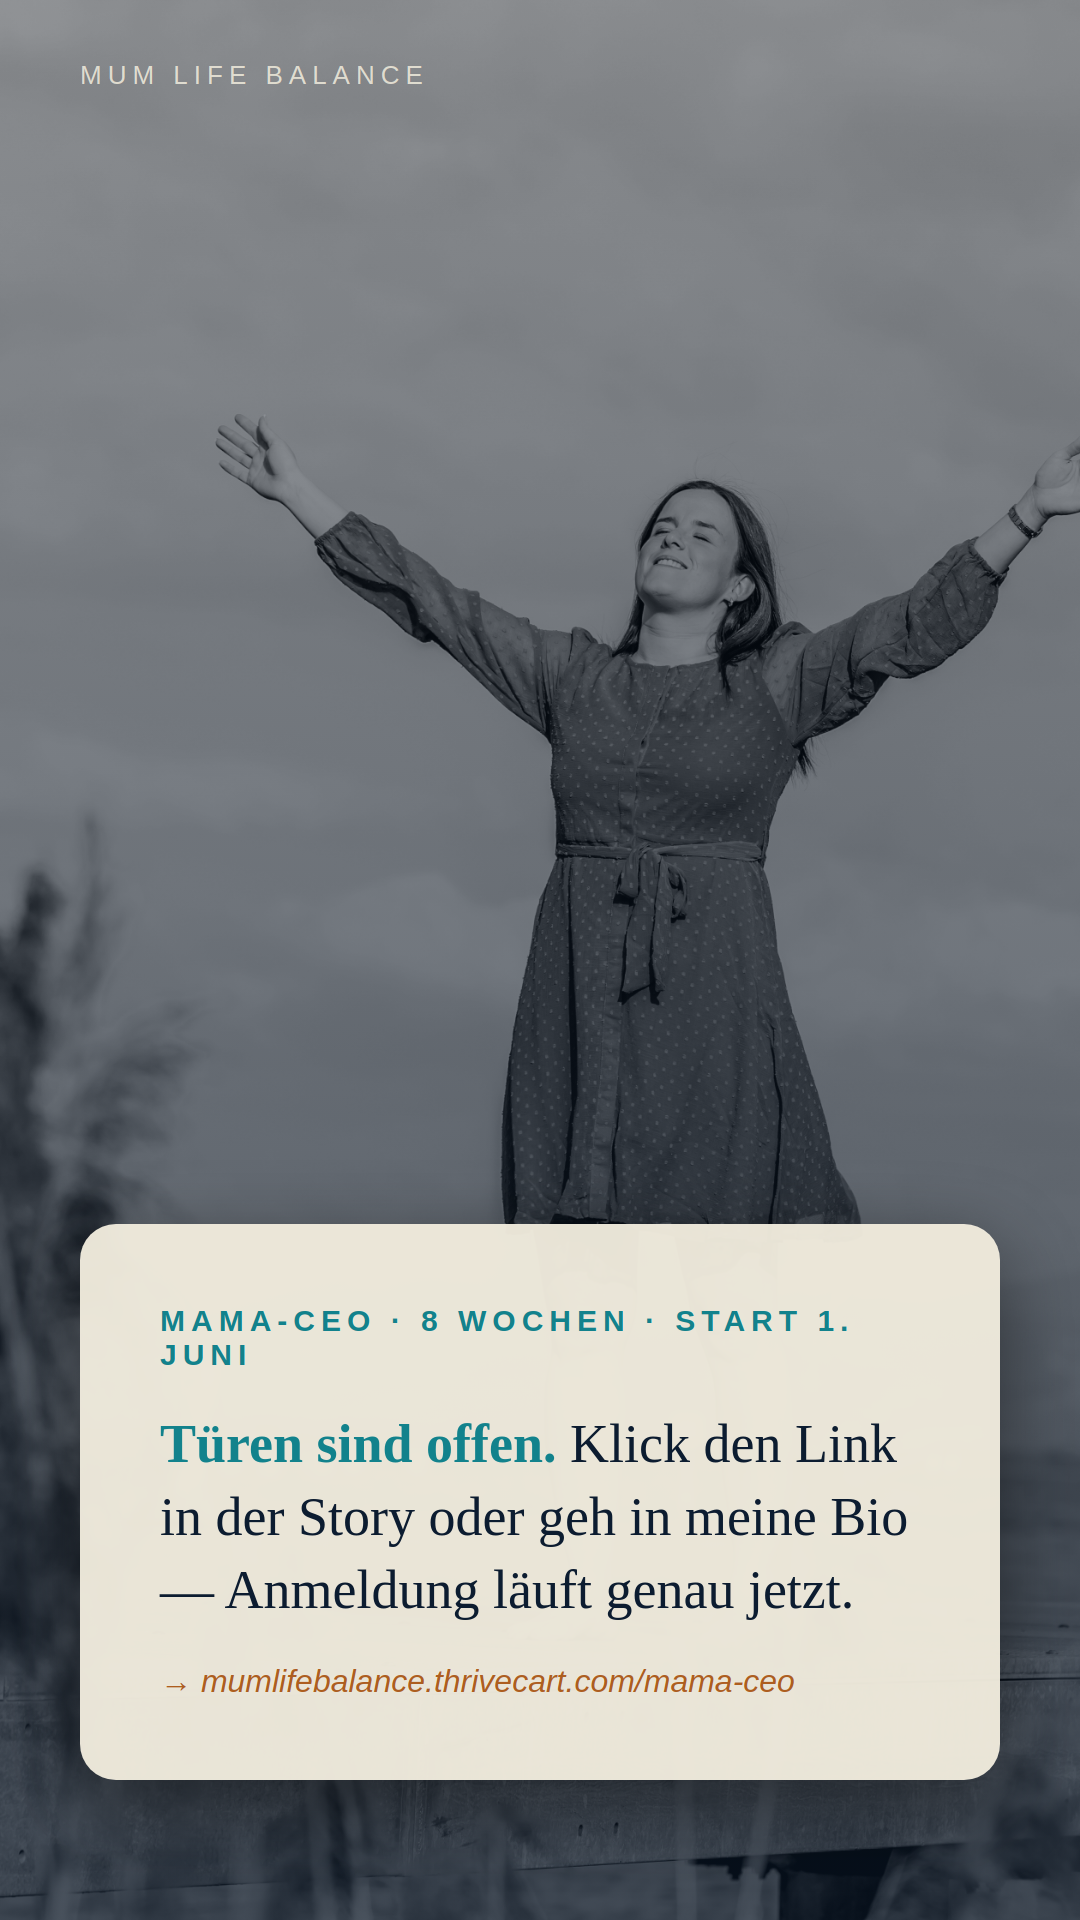
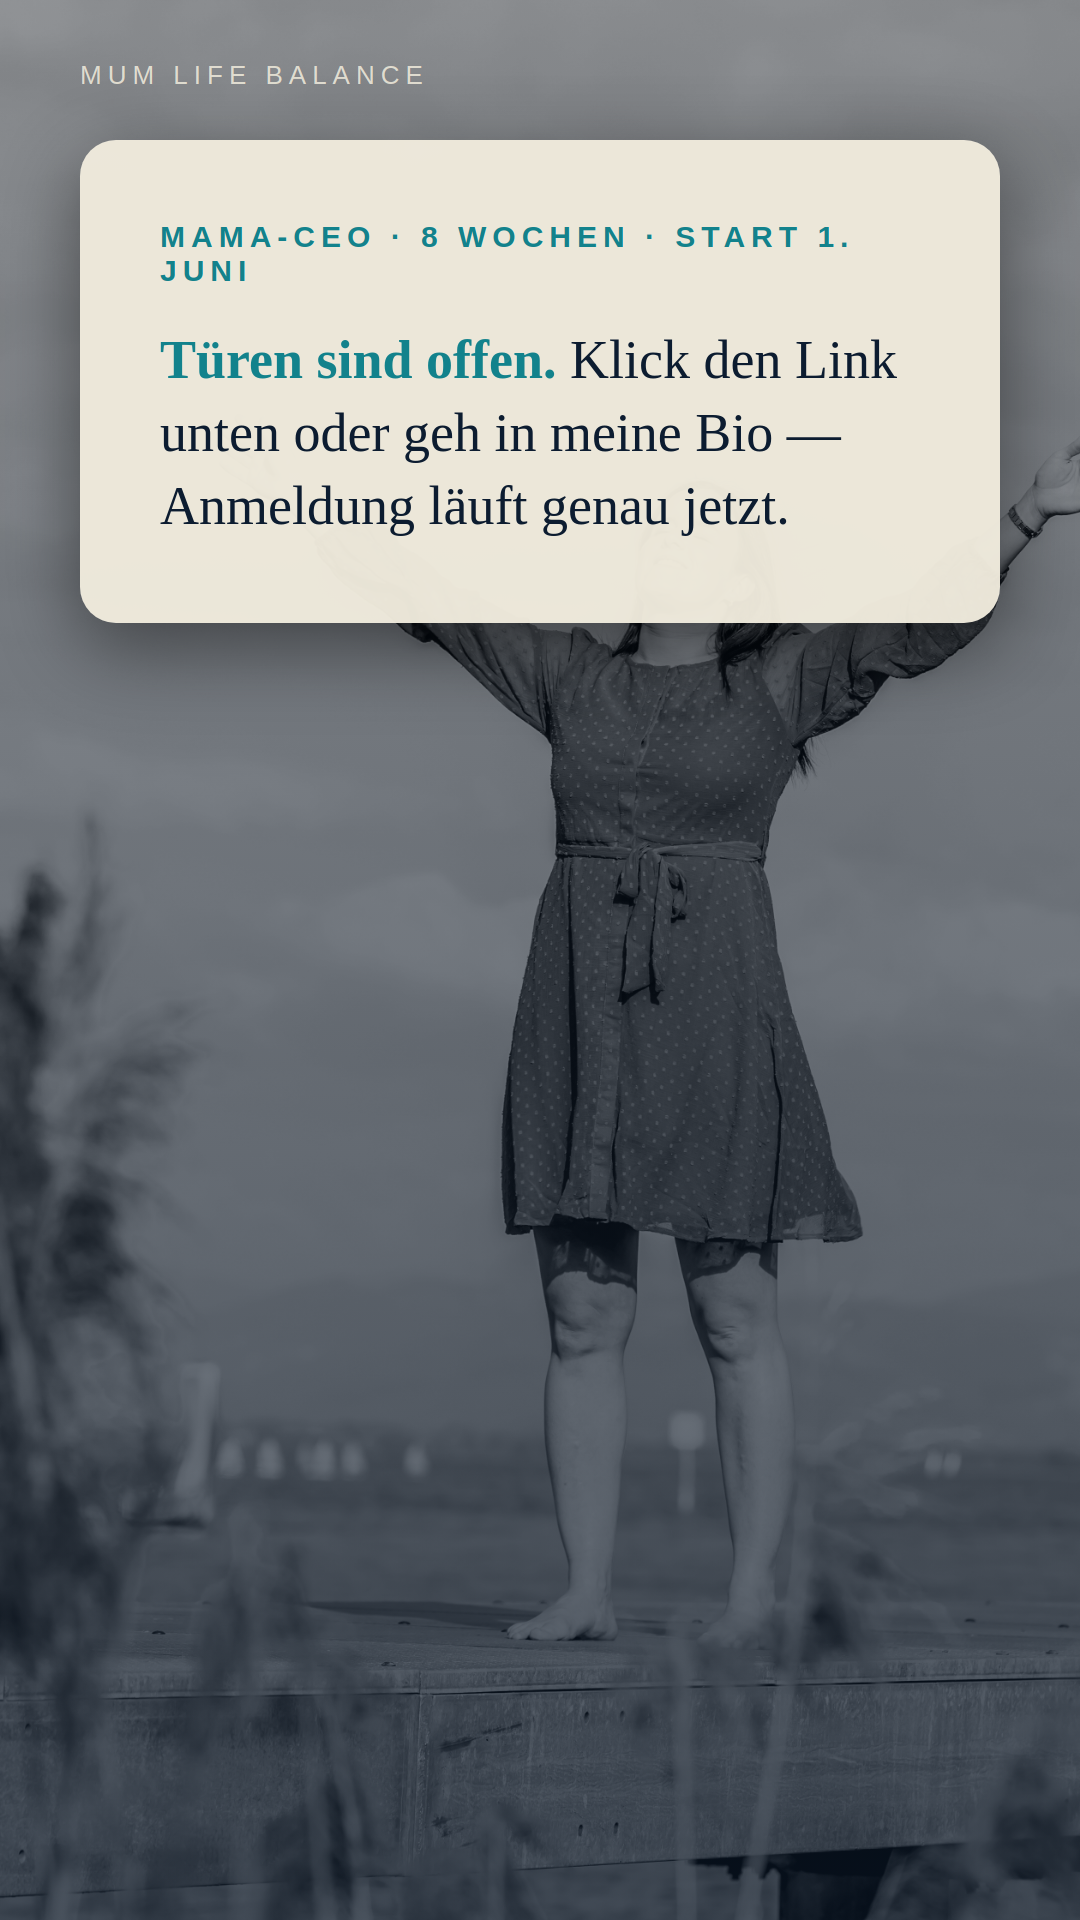
story: Tag 0 Slide 8 — Card nach oben, Link-Sticker-Slot unten frei
Card-Position auf top, URL-Zeile aus Card entfernt. Untere Halfte der
Slide ist jetzt frei fuer Patricias Instagram-Link-Sticker auf
mumlifebalance.thrivecart.com/mama-ceo.

diff --git a/outputs/stories/2026-05-20-salesday-mentoring-mama-ceo-launch-tag-0/slides.html b/outputs/stories/2026-05-20-salesday-mentoring-mama-ceo-launch-tag-0/slides.html
@@ -157,16 +157,15 @@
         <img class="bg" src="fotos/slide-08-cta.jpg" alt="">
         <div class="dim"></div>
         <div class="brand-tag">Mum Life Balance</div>
-        <div class="card">
+        <div class="card top">
           <div class="card-eyebrow">Mama-CEO · 8 Wochen · Start 1. Juni</div>
           <div class="card-text">
-            <strong>Türen sind offen.</strong> Klick den Link in der Story oder geh in meine Bio — Anmeldung läuft genau jetzt.
+            <strong>Türen sind offen.</strong> Klick den Link unten oder geh in meine Bio — Anmeldung läuft genau jetzt.
           </div>
-          <div class="cta-knappheit">→ mumlifebalance.thrivecart.com/mama-ceo</div>
         </div>
       </div>
     </div>
-    <div class="frame-label">08 CTA · Türen offen</div>
+    <div class="frame-label">08 CTA · Türen offen (Link-Sticker-Slot unten)</div>
   </div>
 
 </div>
